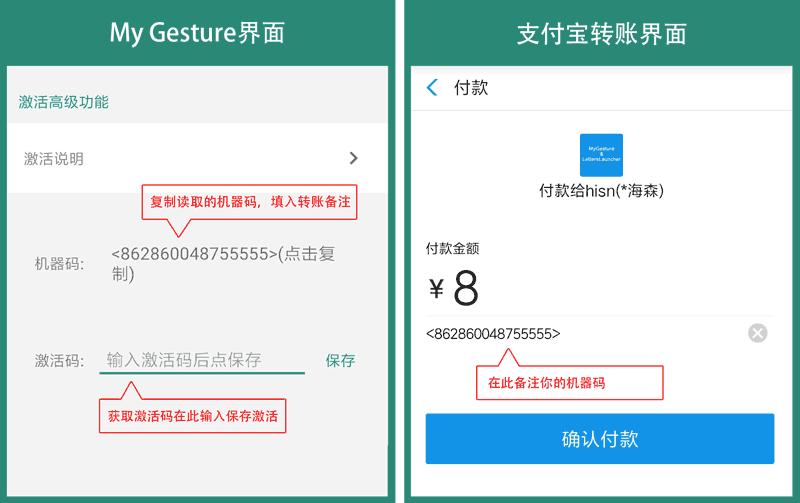
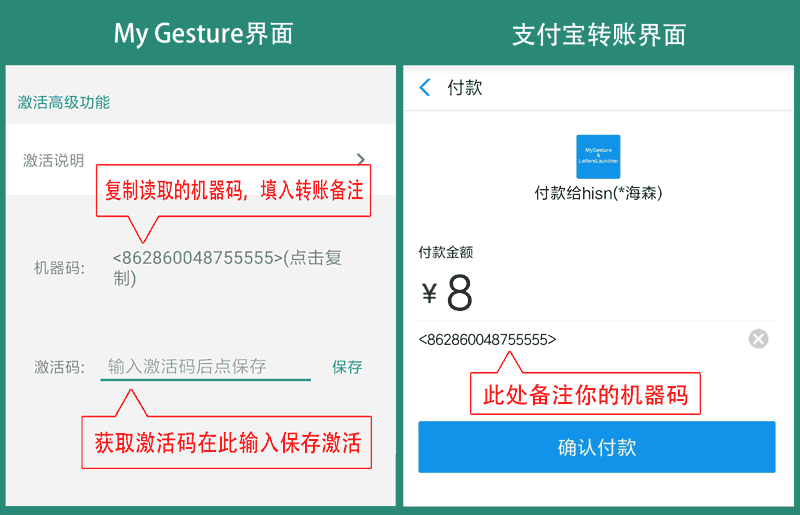
Add files via upload

diff --git a/mygesture/pro_guide.html b/mygesture/pro_guide.html
@@ -25,8 +25,13 @@
 <p>	</p>
 <li><b>购买激活码：</b></li>
 <p>	</p>
-<p>加开发者支付宝好友：hisnyang@gmail.com</p>
-<p>先加好友，不要直接转账。有时工作忙，不一定能及时处理，请稍等。</p>
+<p><img src="pay_guide.png"></p>
+<p style="color:#ff0000">转账请一定备注你的机器码！(参考上图)</p>
+<p style="color:#ff0000">转账请一定备注你的机器码！(参考上图)</p>
+<p style="color:#ff0000">转账请一定备注你的机器码！(参考上图)</p>
+<p>转账到支付宝账号：hisnyang@gmail.com</p>
+<p>收到转账后，我会给你回转0.01元（备注了你的激活码），注意查收！</p>
+<p>有时工作忙，不一定能及时处理，请谅解！一般24小时内肯定会处理。</p>
 <p>	</p>
 <li>福利：激活码通用于开发者的另一应用<a href="https://www.coolapk.com/apk/208685">【字母索引桌面】</a></li>
 <li>或者有条件的可以选择play版内购激活，play版和酷安版处理激活方式的不同其他并无区别(两个版本激活不通用)。play版地址：<a href="https://play.google.com/store/apps/details?id=me.hisn.mygesture">My gesture - Edge navigation gesture</a> </li>
